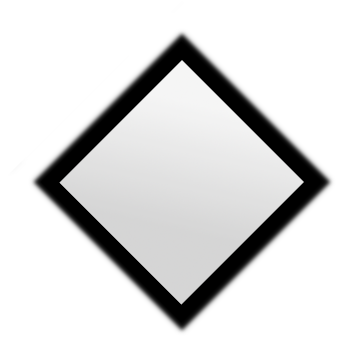
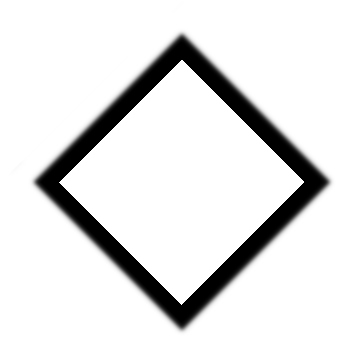
made point generation more modular so I can use it for drawing white circle widgets

Changed region(s): [[0.1511, 0.3626, 0.8462, 0.8462], [0.7555, 0.4231, 0.7857, 0.4533], [0.3022, 0.3324, 0.3324, 0.3626]]

diff --git a/Assets/Editor/MyGUI.cs b/Assets/Editor/MyGUI.cs
@@ -22,7 +22,7 @@ public static class MyGUI
         Vector3 forward = (end - start).normalized;
         Handles.DrawWireDisc(start,forward,startRadius);
         Handles.DrawWireDisc(end,forward,endRadius);
-        Vector3 orthoVector = GetArbitraryOrthoVector(forward);
+        /*Vector3 orthoVector = GetArbitraryOrthoVector(forward);
         for (int i = 0; i < WireCylinderLineCount; i++)
         {
             float angle = 360.0f * i / WireCylinderLineCount;//degrees
@@ -30,7 +30,7 @@ public static class MyGUI
             Vector3 lineStartPoint = outVect*startRadius + start;
             Vector3 lineEndPoint = outVect*endRadius + end;
             Handles.DrawLine(lineStartPoint,lineEndPoint);
-        }
+        }*/
     }
     #endregion
 
@@ -641,17 +641,17 @@ public static class MyGUI
             case EventType.Repaint:
                 #region repaint
 
-                void DrawCurveFromIndex(int index,Texture2D tex,BeizerCurve pointProvider)
+                void DrawCurveFromIndex(int index,Texture2D tex,BeizerCurve pointProvider,Color color,float thickness)
                 {
                     var point1 = curve.transform.TransformPoint(pointProvider[index, 0]);
                     var point2 = curve.transform.TransformPoint(pointProvider[index, 3]);
                     var tangent1 = curve.transform.TransformPoint(pointProvider[index, 1]);
                     var tangent2 = curve.transform.TransformPoint(pointProvider[index, 2]);
-                    Handles.DrawBezier(point1, point2, tangent1, tangent2, new Color(.9f, .9f, .9f), tex, lineThickness);
+                    Handles.DrawBezier(point1, point2, tangent1, tangent2, color, tex, thickness);
                 }
                 for (int i = 0; i < positionCurve.NumSegments; i++)
                 {
-                    DrawCurveFromIndex(i,curve.lineTex,positionCurve);
+                    DrawCurveFromIndex(i,curve.lineTex,positionCurve,new Color(.6f,.6f,.6f),lineThickness);
                 }
                 if (curve.editMode == EditMode.Size)
                 {
@@ -693,7 +693,7 @@ public static class MyGUI
                         if (left)
                         {
                             for (int n=leftIndex;n<centerIndex;n++)
-                                DrawCurveFromIndex(n,bottomTex,clonedCurve);
+                                DrawCurveFromIndex(n,bottomTex,clonedCurve,Color.white,4);
                             //////
                             EditWireCylinder(leftDataAtDistance.position,sizeCurve.GetKeyframeY(c,PGIndex.LeftTangent),centerDataAtDistance.position,sizeCurve.GetKeyframeY(c,PGIndex.Position));
                         }
@@ -703,7 +703,7 @@ public static class MyGUI
                             rightIndex= clonedCurve.InsertSegmentAfterIndex(new CurveSplitPointInfo(rightDataAtDistance.segmentIndex,rightDataAtDistance.time), false, BeizerCurve.SplitInsertionNeighborModification.RetainCurveShape);
                             clonedCurve.Recalculate();
                             for (int n=centerIndex;n<rightIndex;n++)
-                                DrawCurveFromIndex(n,topTex,clonedCurve);
+                                DrawCurveFromIndex(n,topTex,clonedCurve,Color.white,4);
                             //////
                             EditWireCylinder(centerDataAtDistance.position,sizeCurve.GetKeyframeY(c,PGIndex.Position),rightDataAtDistance.position,sizeCurve.GetKeyframeY(c,PGIndex.RightTangent));
                         }

diff --git a/Assets/MeshGenerator.cs b/Assets/MeshGenerator.cs
@@ -79,31 +79,6 @@ public static class MeshGenerator
         var sampled = curve.GetPoints();
         int numRings = sampled.Count - 1;
         int ActualRingPointCount = RingPointCount - (TubeArc == 360.0 ? 1 : 0);
-        void GenerateVertexLayer(bool isExterior){//generate verts
-            float distanceFromFull = 360.0f - TubeArc;
-            void GenerateRing(PointOnCurve startPoint, Vector3 forwardVector, ref Vector3 previousTangent)
-            {
-                //Old Method: 
-                //Vector3 tangentVect = NormalTangent(forwardVector, previousTangent);
-                Vector3 tangentVect = NormalTangent(forwardVector, Vector3.up);
-                previousTangent = tangentVect;
-                float offset = (isExterior ? .5f :-.5f)*(TubeThickness);
-                var size = Mathf.Max(0, sizeCurve.Evaluate(startPoint.distanceFromStartOfCurve) + offset);
-                for (int j = 0; j < ActualRingPointCount; j++)
-                {
-                    float theta = (TubeArc * j / (ActualRingPointCount- (TubeArc == 360.0 ? 0 : 1))) + distanceFromFull / 2 + Rotation;
-                    Vector3 rotatedVect = Quaternion.AngleAxis(theta, forwardVector) * tangentVect;
-                    vertices.Add(startPoint.position + rotatedVect * size);
-                }
-            }
-            Vector3 lastTangent = Quaternion.FromToRotation(Vector3.forward, (sampled[1].position - sampled[0].position).normalized) * Vector3.right;
-            for (int i = 0; i < sampled.Count - 1; i++)
-            {
-                GenerateRing(sampled[i], (sampled[i + 1].position - sampled[i].position).normalized, ref lastTangent);
-            }
-            int finalIndex = sampled.Count- 1;
-            GenerateRing(sampled[finalIndex], (sampled[finalIndex].position - sampled[finalIndex - 1].position).normalized, ref lastTangent);
-        }
         void DrawQuad(int side1Point1, int side1Point2, int side2Point1, int side2Point2)
         {
             //Tri1
@@ -239,7 +214,7 @@ public static class MeshGenerator
                 numTris = ActualRingPointCount * numRings * 6;//each ring point except for the last ring has a quad (6) associated with it
                 shouldDrawConnectingFace = true;
                 InitLists();
-                GenerateVertexLayer(true);
+                curve.CreatePointsAlongCurve(sampled, vertices, new AnimationCurveIEvaluatableAdapter(sizeCurve), TubeArc, TubeThickness, ActualRingPointCount, Rotation, true);
                 TrianglifyLayer(true);
                 CreateTubeEndPlates();  
                 break;
@@ -252,8 +227,8 @@ public static class MeshGenerator
                 else
                     shouldDrawConnectingFace = false;
                 InitLists();
-                GenerateVertexLayer(true);
-                GenerateVertexLayer(false);
+                curve.CreatePointsAlongCurve(sampled, vertices, new AnimationCurveIEvaluatableAdapter(sizeCurve), TubeArc, TubeThickness, ActualRingPointCount, Rotation, true);
+                curve.CreatePointsAlongCurve(sampled, vertices, new AnimationCurveIEvaluatableAdapter(sizeCurve), TubeArc, TubeThickness, ActualRingPointCount, Rotation, false);
                 TrianglifyLayer(true);
                 TrianglifyLayer(false);
                 if (!is360degree)

diff --git a/Assets/BeizerCurvePartial.cs b/Assets/BeizerCurvePartial.cs
@@ -1,0 +1,69 @@
+using System.Collections;
+using System.Collections.Generic;
+using UnityEngine;
+
+public partial class BeizerCurve
+{
+    private Vector3 NormalTangent(Vector3 forwardVector, Vector3 previous)
+    {
+        return Vector3.ProjectOnPlane(previous, forwardVector).normalized;
+    }
+    public void CreatePointsAlongCurve(List<PointOnCurve> points, List<Vector3> listToAppend, IEvaluatable sizeCurve, float TubeArc, float TubeThickness, int RingPointCount, float Rotation, bool isExterior)
+    {
+        float distanceFromFull = 360.0f - TubeArc;
+        void GenerateRing(PointOnCurve startPoint, Vector3 forwardVector, ref Vector3 previousTangent)
+        {
+            //Old Method: 
+            //Vector3 tangentVect = NormalTangent(forwardVector, previousTangent);
+            Vector3 tangentVect = NormalTangent(forwardVector, Vector3.up);
+            previousTangent = tangentVect;
+            float offset = (isExterior ? .5f : -.5f) * (TubeThickness);
+            var size = Mathf.Max(0, sizeCurve.Evaluate(startPoint.distanceFromStartOfCurve) + offset);
+            for (int j = 0; j < RingPointCount; j++)
+            {
+                float theta = (TubeArc * j / (RingPointCount - (TubeArc == 360.0 ? 0 : 1))) + distanceFromFull / 2 + Rotation;
+                Vector3 rotatedVect = Quaternion.AngleAxis(theta, forwardVector) * tangentVect;
+                listToAppend.Add(startPoint.position + rotatedVect * size);
+            }
+        }
+        Vector3 lastTangent = Quaternion.FromToRotation(Vector3.forward, (points[1].position - points[0].position).normalized) * Vector3.right;
+        for (int i = 0; i < points.Count - 1; i++)
+        {
+            GenerateRing(points[i], (points[i + 1].position - points[i].position).normalized, ref lastTangent);
+        }
+        int finalIndex = points.Count - 1;
+        GenerateRing(points[finalIndex], (points[finalIndex].position - points[finalIndex - 1].position).normalized, ref lastTangent);
+    }
+}
+public class AnimationCurveIEvaluatableAdapter : IEvaluatable
+{
+    private AnimationCurve _curve;
+    public AnimationCurveIEvaluatableAdapter(AnimationCurve curve)
+    {
+        _curve = curve;
+    }
+    public float Evaluate(float time)
+    {
+        return _curve.Evaluate(time);
+    }
+}
+
+public class LinearEvaluatable : IEvaluatable
+{
+    private float _startValue;
+    private float _endValue;
+    public LinearEvaluatable(float startValue, float endValue)
+    {
+        _startValue = startValue;
+        _endValue = endValue;
+    }
+    public float Evaluate(float time)
+    {
+        return Mathf.Lerp(_startValue, _endValue, time);
+    }
+}
+
+public interface IEvaluatable
+{
+    float Evaluate(float time);
+}

diff --git a/Assets/BeizerCurve.cs b/Assets/BeizerCurve.cs
@@ -4,7 +4,7 @@ using UnityEngine;
 
 //A class which defines a chain of 3rd order beizer curves (4 control points per segment)
 [System.Serializable]
-public class BeizerCurve
+public partial class BeizerCurve
 {
     [SerializeField]
     [HideInInspector]
@@ -278,7 +278,7 @@ public class BeizerCurve
 
     public static PGIndex GetPointTypeByIndex(int virtualIndex)
     {
-        int offsetIndex = virtualIndex-GetParentVirtualIndex(virtualIndex);
+        int offsetIndex = virtualIndex - GetParentVirtualIndex(virtualIndex);
         return (PGIndex)offsetIndex;
     }
     public PGIndex GetOtherTangentIndex(PGIndex index)
